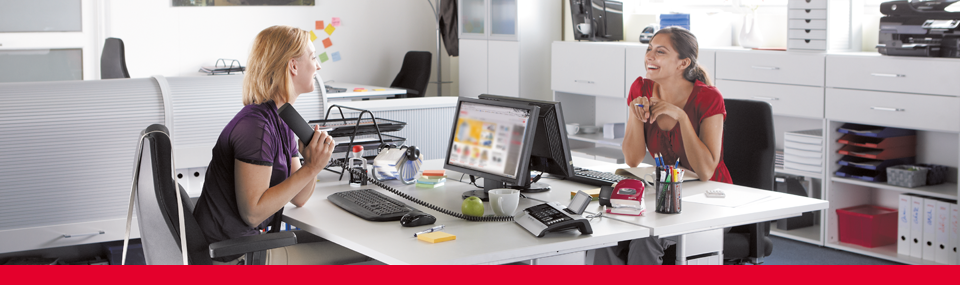
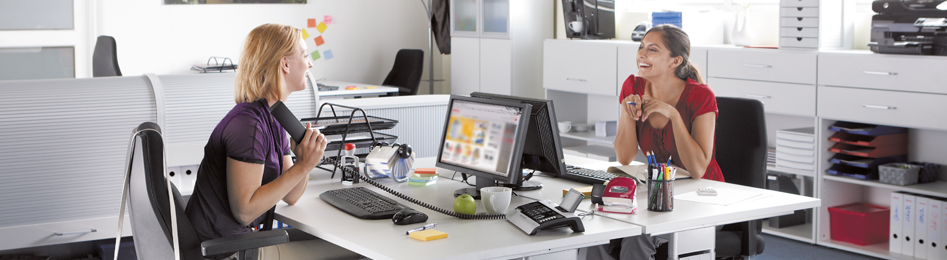
Adds border to carousel pics and login links to carousel buttons

diff --git a/app/assets/stylesheets/application.css b/app/assets/stylesheets/application.css
@@ -115,7 +115,9 @@ body {
   min-width: 100%;
   height: 500px;
 }
-
+#carousel-pic {
+  border: 3px solid #000;
+}
 
 /* MARKETING CONTENT
 -------------------------------------------------- */

diff --git a/spec/features/user_visits_login_page_spec.rb b/spec/features/user_visits_login_page_spec.rb
@@ -50,4 +50,35 @@ RSpec.feature "User visits login page" do
     end
   end
 
+  context "they can't create a new user" do
+    it "with a password that already exists" do
+      user = User.create(username: "John Elway", password: "je", password_confirmation: "je", email: 'je@je.com', cellphone: '1234561234')
+
+      visit '/login'
+
+      within('#login') do
+        fill_in "Username", with: user.username
+        fill_in "Password", with: user.password
+
+        click_button "Log In"
+      end
+
+      click_on "Logout"
+      click_on "Login"
+      within('#create-user') do
+        fill_in "Username", with: "John Elway"
+        require "pry"; binding.pry
+        fill_in "Email", with: "je@je.com"
+        fill_in "Cell Number", with: '3031234567'
+        fill_in "Password", with: 'p'
+        fill_in "Confirm Password", with: 'p'
+
+        click_button "Create Account"
+      end
+
+      expect(page).to have_content('Unable to login')
+    end
+  end
+
+
 end
